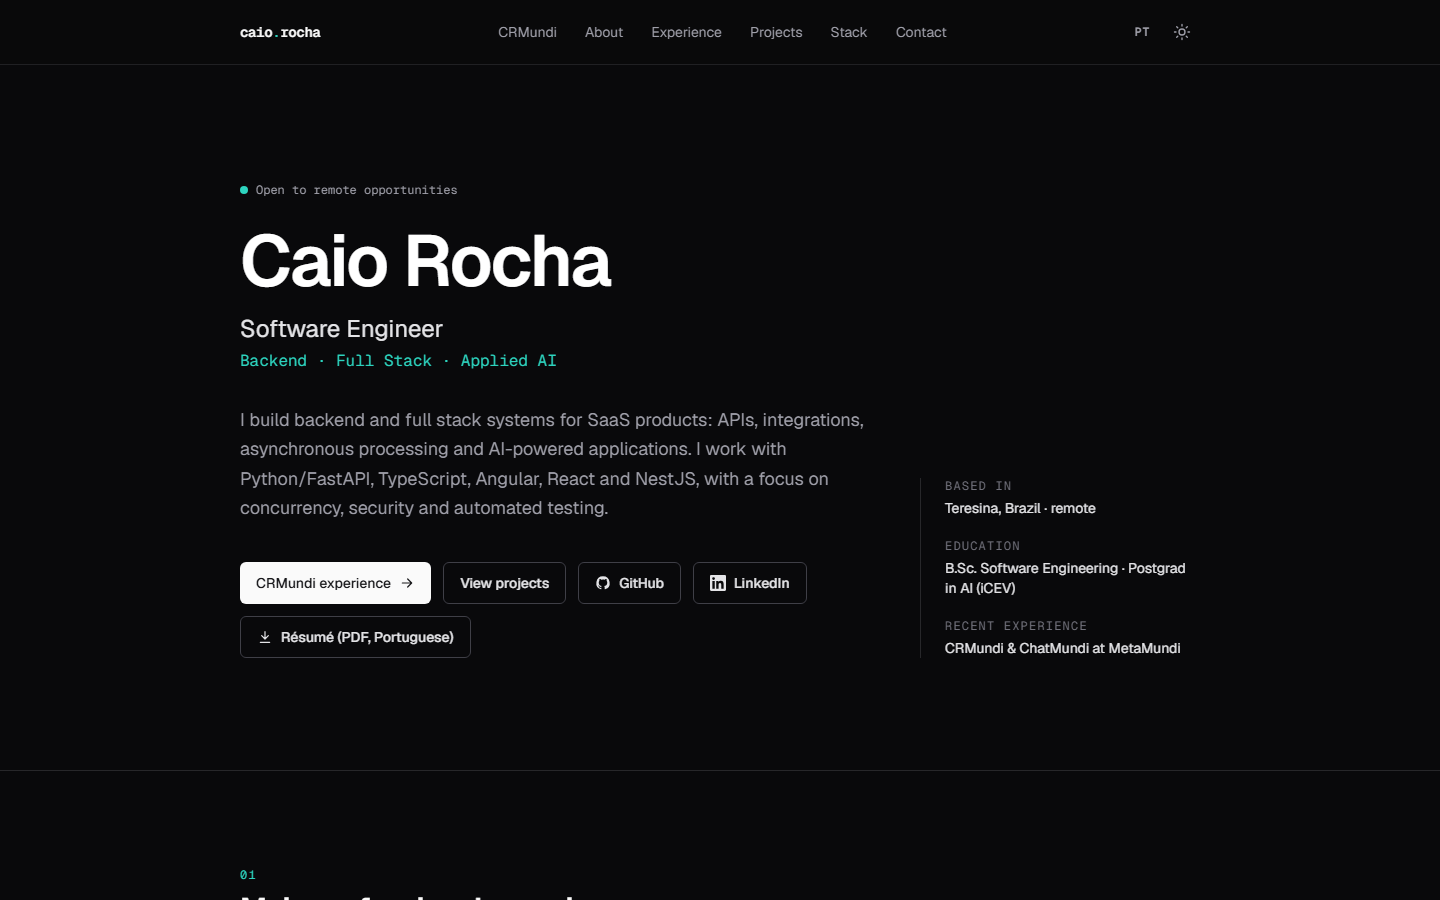
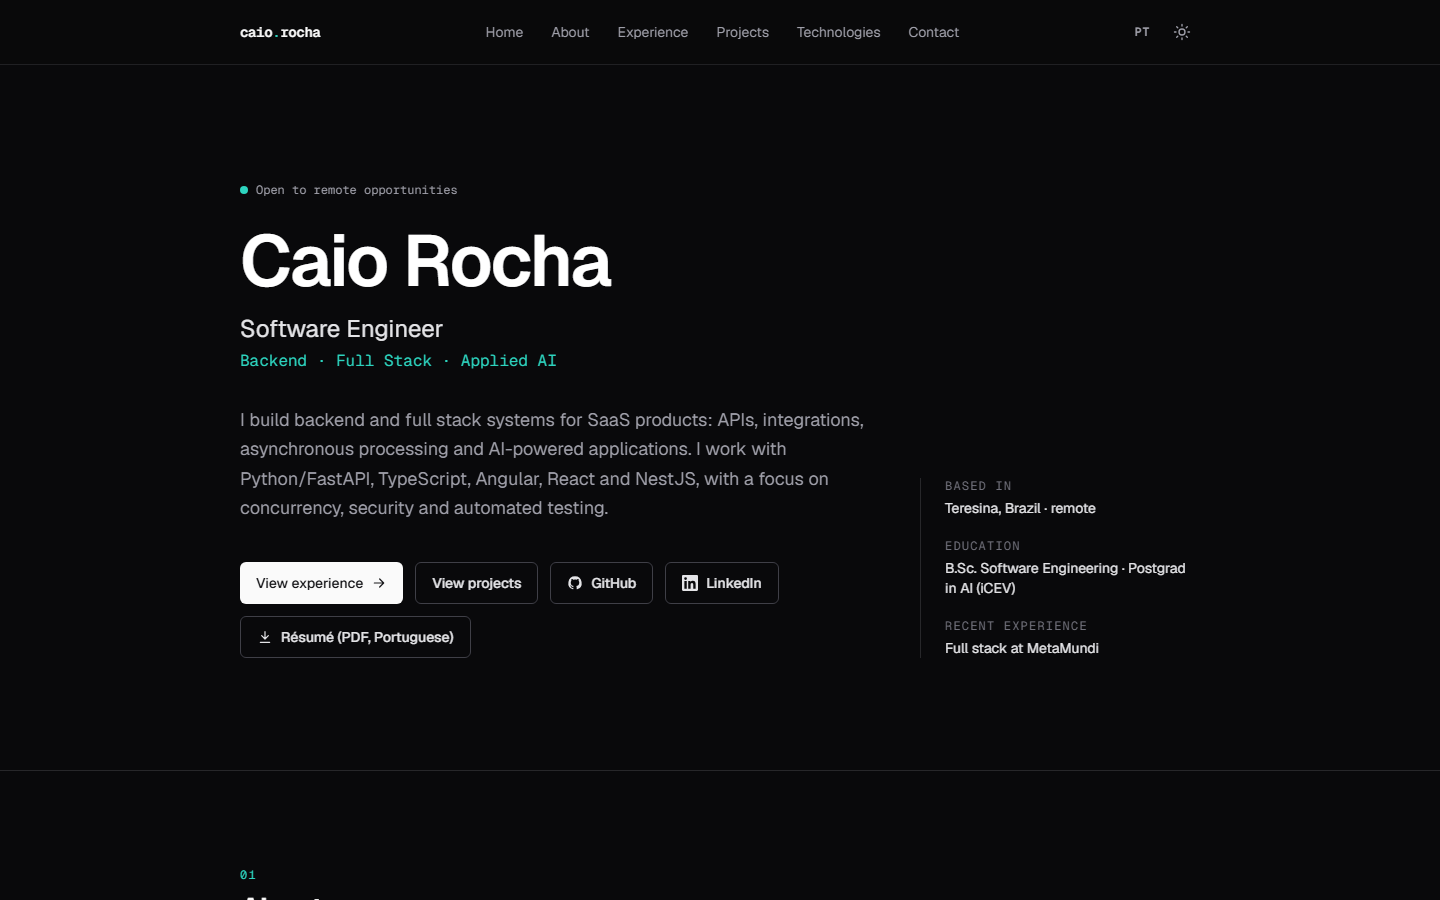
docs: refresh site screenshots and structure documentation

diff --git a/docs/MAINTENANCE.md b/docs/MAINTENANCE.md
@@ -2,15 +2,14 @@
 
 ## Onde fica cada conteúdo
 
-| O que mudar                                                            | Arquivo                            |
-| ---------------------------------------------------------------------- | ---------------------------------- |
-| Nome, título, introdução, sobre, formação, links, currículo            | `src/data/profile.ts`              |
-| Experiência profissional                                               | `src/data/experience.ts`           |
-| Estudo de caso CRMundi & ChatMundi (textos, fluxos, limites)           | `src/data/crmundi.ts`              |
-| Diagrama conceitual do CRMundi                                         | `src/components/SystemDiagram.tsx` |
-| Projetos (resumo, arquitetura, decisões, testes, limitações, capturas) | `src/data/projects.ts`             |
-| Stack por categoria                                                    | `src/data/stack.ts`                |
-| Textos da interface (menus, botões, títulos, SEO)                      | `src/data/dictionary.ts`           |
+| O que mudar                                                               | Arquivo                  |
+| ------------------------------------------------------------------------- | ------------------------ |
+| Nome, título, introdução, sobre, formação, links, currículo               | `src/data/profile.ts`    |
+| Experiência profissional                                                  | `src/data/experience.ts` |
+| Experiência MetaMundi, estudo de caso CRMundi (domínios, status, limites) | `src/data/crmundi.ts`    |
+| Projetos (resumo, arquitetura, decisões, testes, limitações, capturas)    | `src/data/projects.ts`   |
+| Stack por categoria                                                       | `src/data/stack.ts`      |
+| Textos da interface (menus, botões, títulos, SEO)                         | `src/data/dictionary.ts` |
 
 Todo texto é um objeto `{ pt, en }`. O teste `src/test/content.test.ts` falha se algum idioma ficar vazio,
 se as chaves dos dicionários divergirem, se uma captura referenciada não existir ou se o total de testes
@@ -43,8 +42,8 @@ Atenção: o PDF publicado fica acessível a qualquer pessoa, inclusive telefone
 ## Estudo de caso CRMundi
 
 Antes de alterar `src/data/crmundi.ts`, confira as evidências da auditoria e respeite os limites de
-atribuição: não publicar capturas sem autorização escrita da MetaMundi, não incluir nomes internos de tabelas,
-endpoints ou ambientes, não citar métricas de negócio e não apresentar como entregue o que estava apenas em
+atribuição: não publicar capturas sem autorização escrita da MetaMundi, não incluir nomes internos de serviços, tabelas,
+endpoints, ambientes nem diagramas da topologia da empresa, não citar métricas de negócio e não apresentar como entregue o que estava apenas em
 develop ou em branch. O teste `e2e/crmundi.spec.ts` falha se a página ganhar imagens raster ou links para
 domínios e ambientes da empresa.
 

diff --git a/README.md b/README.md
@@ -11,11 +11,15 @@ Apresenta três projetos completos com estudos de caso, capturas reais, testes e
 | ------------------------------------------- | ----------------------------------------------------------------- |
 | ![Home](docs/screenshots/home-pt-light.png) | ![Home em inglês, tema escuro](docs/screenshots/home-en-dark.png) |
 
-## Experiência profissional em destaque
+## Estrutura do site
 
-**CRMundi & ChatMundi (MetaMundi, 2025 a 2026):** estudo de caso em `/pt/experience/crmundi/` e
-`/en/experience/crmundi/`. O produto é proprietário: a página descreve apenas a contribuição do autor, usa
-diagramas conceituais originais e não publica capturas, código, nomes internos nem links de ambientes.
+Home: apresentação, sobre, experiência profissional (resumo), projetos pessoais, tecnologias e contato.
+
+- `/pt/experience/` e `/en/experience/`: trajetória profissional (MetaMundi e Secretaria Municipal de Educação de Teresina).
+- `/pt/experience/crmundi/` e `/en/experience/crmundi/`: estudo de caso da experiência na MetaMundi, com contribuições
+  agrupadas por domínio e status de integração. O produto é proprietário: a página descreve apenas a contribuição do
+  autor e não publica capturas, código, nomes internos, topologia de infraestrutura nem links de ambientes.
+- `/pt/projects/<slug>/` e `/en/projects/<slug>/`: estudos de caso dos projetos pessoais.
 
 ## Projetos pessoais apresentados
 
